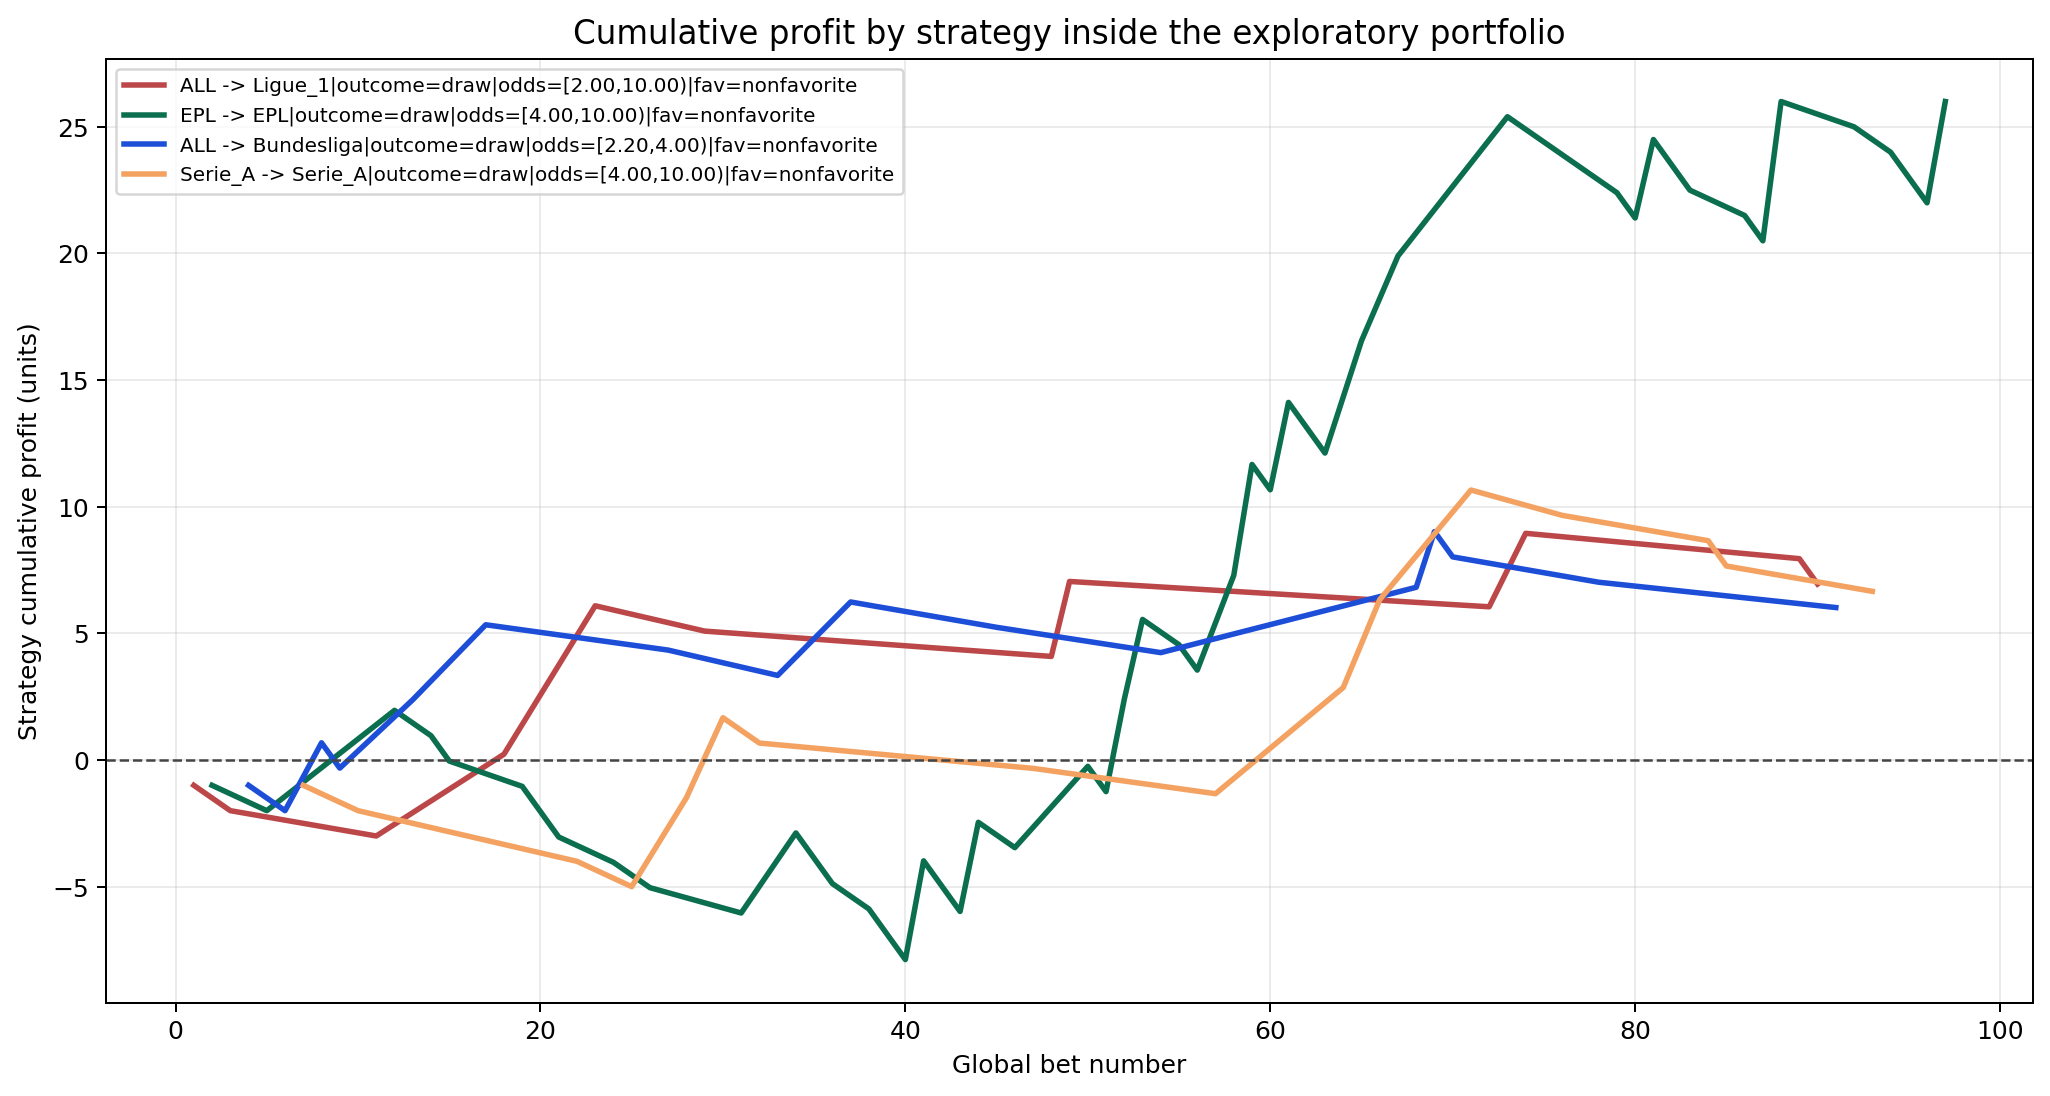
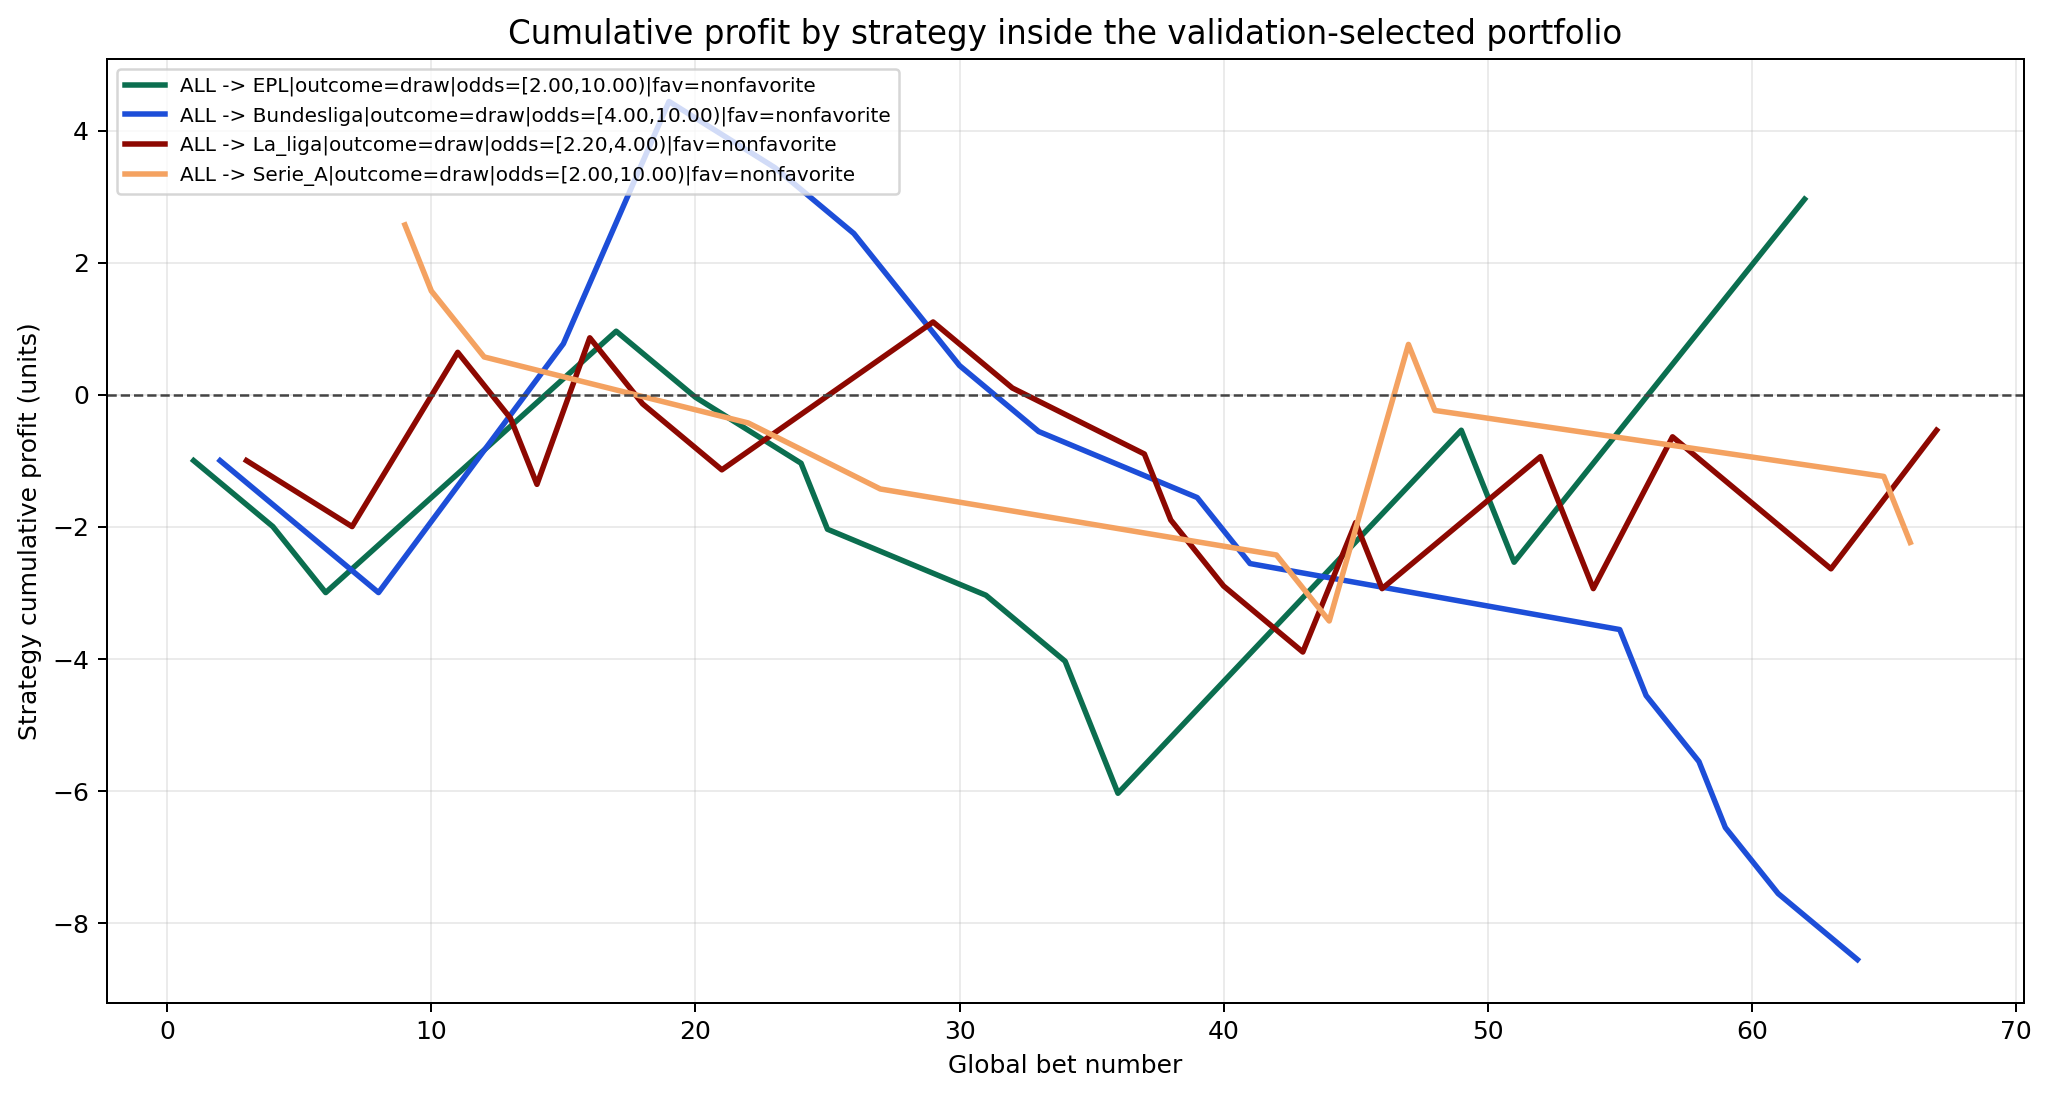
Align live portfolio with validation split

diff --git a/train/generate_readme_figures.py b/train/generate_readme_figures.py
@@ -6,19 +6,20 @@ import pandas as pd
 
 
 SCRIPT_DIR = Path(__file__).resolve().parent
-DEFAULT_PORTFOLIO_BETS = SCRIPT_DIR / "output" / "positive_strategy_portfolio_bets_test_selected.csv"
+DEFAULT_PORTFOLIO_BETS = SCRIPT_DIR / "output" / "positive_strategy_portfolio_bets.csv"
 DEFAULT_DOCS = SCRIPT_DIR.parent / "docs"
 LEAGUE_COLORS = {
     "EPL": "#0b6e4f",
     "Bundesliga": "#1d4ed8",
+    "La_liga": "#8d0801",
     "Ligue_1": "#bc4749",
     "Serie_A": "#f4a261",
 }
 STRATEGY_COLORS = {
-    "train=ALL|bet=Bundesliga|outcome=draw|odds=[2.20,4.00)|fav=nonfavorite": "#1d4ed8",
-    "train=EPL|bet=EPL|outcome=draw|odds=[4.00,10.00)|fav=nonfavorite": "#0b6e4f",
-    "train=ALL|bet=Ligue_1|outcome=draw|odds=[2.00,10.00)|fav=nonfavorite": "#bc4749",
-    "train=Serie_A|bet=Serie_A|outcome=draw|odds=[4.00,10.00)|fav=nonfavorite": "#f4a261",
+    "train=ALL|bet=Bundesliga|outcome=draw|odds=[4.00,10.00)|fav=nonfavorite": "#1d4ed8",
+    "train=ALL|bet=EPL|outcome=draw|odds=[2.00,10.00)|fav=nonfavorite": "#0b6e4f",
+    "train=ALL|bet=Serie_A|outcome=draw|odds=[2.00,10.00)|fav=nonfavorite": "#f4a261",
+    "train=ALL|bet=La_liga|outcome=draw|odds=[2.20,4.00)|fav=nonfavorite": "#8d0801",
 }
 
 
@@ -57,7 +58,7 @@ def plot_portfolio_cumulative_profit(df: pd.DataFrame, output_path: Path) -> Non
     final_roi = df["profit"].mean() * 100.0
     ax.set_title(
         (
-            "Exploratory multi-strategy portfolio on 2025/26\n"
+            "Validation-selected multi-strategy portfolio on 2025/26\n"
             f"{len(df)} bets, cumulative profit {final_profit:.2f}u, ROI {final_roi:.2f}%"
         ),
         fontsize=13,
@@ -87,7 +88,7 @@ def plot_portfolio_cumulative_by_strategy(df: pd.DataFrame, output_path: Path) -
         )
 
     ax.axhline(0.0, color="#444444", linewidth=1.0, linestyle="--")
-    ax.set_title("Cumulative profit by strategy inside the exploratory portfolio", fontsize=13)
+    ax.set_title("Cumulative profit by strategy inside the validation-selected portfolio", fontsize=13)
     ax.set_xlabel("Global bet number")
     ax.set_ylabel("Strategy cumulative profit (units)")
     ax.grid(alpha=0.25)
@@ -104,7 +105,7 @@ def plot_portfolio_monthly_roi_by_league(df: pd.DataFrame, output_path: Path) ->
         .agg(bets=("profit", "size"), roi=("profit", "mean"), profit=("profit", "sum"))
     )
     months = list(dict.fromkeys(monthly["month"].tolist()))
-    leagues = [league for league in ["Bundesliga", "EPL", "Ligue_1", "Serie_A"] if league in set(monthly["league"])]
+    leagues = [league for league in ["Bundesliga", "EPL", "La_liga", "Ligue_1", "Serie_A"] if league in set(monthly["league"])]
     x = np.arange(len(months))
     width = 0.18 if leagues else 0.6
 
@@ -138,7 +139,7 @@ def plot_portfolio_monthly_roi_by_league(df: pd.DataFrame, output_path: Path) ->
     ax.axhline(0.0, color="#444444", linewidth=1.0, linestyle="--")
     ax.set_xticks(x)
     ax.set_xticklabels(months)
-    ax.set_title("Monthly ROI by league inside the exploratory portfolio", fontsize=13)
+    ax.set_title("Monthly ROI by league inside the validation-selected portfolio", fontsize=13)
     ax.set_xlabel("Month")
     ax.set_ylabel("ROI (%)")
     ax.grid(axis="y", alpha=0.25)
@@ -165,7 +166,7 @@ def plot_portfolio_strategy_contribution(df: pd.DataFrame, output_path: Path) ->
     fig, ax = plt.subplots(figsize=(12.0, 6.2))
     bars = ax.barh(labels, summary["profit"], color=colors, alpha=0.9)
     ax.axvline(0.0, color="#444444", linewidth=1.0, linestyle="--")
-    ax.set_title("Strategy contribution inside the exploratory portfolio", fontsize=13)
+    ax.set_title("Strategy contribution inside the validation-selected portfolio", fontsize=13)
     ax.set_xlabel("Profit (units)")
     ax.set_ylabel("Strategy")
     ax.grid(axis="x", alpha=0.25)

diff --git a/inference/portfolio_presets.py b/inference/portfolio_presets.py
@@ -100,8 +100,92 @@ EXPLORATORY_MULTI_STRATEGY_PORTFOLIO_2025 = [
     ),
 ]
 
+VALIDATION_MULTI_STRATEGY_PORTFOLIO_2024 = [
+    FrozenStrategy(
+        name="bundesliga_draw_long_nonfavorite",
+        train_league="",
+        bet_league="Bundesliga",
+        outcome="draw",
+        odds_min=4.0,
+        odds_max=10.0,
+        market_favorite_mode="nonfavorite",
+        threshold=0.60,
+        edge_min=0.10,
+        params={
+            "max_depth": 5,
+            "min_child_weight": 1.4818414236595165,
+            "subsample": 0.6194302714303965,
+            "colsample_bytree": 0.8573720289591046,
+            "gamma": 2.9790486236312685,
+            "reg_lambda": 7.756322993256575,
+            "learning_rate": 0.036178648278979875,
+        },
+    ),
+    FrozenStrategy(
+        name="epl_draw_wide_nonfavorite",
+        train_league="",
+        bet_league="EPL",
+        outcome="draw",
+        odds_min=2.0,
+        odds_max=10.0,
+        market_favorite_mode="nonfavorite",
+        threshold=0.70,
+        edge_min=0.08,
+        params={
+            "max_depth": 5,
+            "min_child_weight": 1.4818414236595165,
+            "subsample": 0.6194302714303965,
+            "colsample_bytree": 0.8573720289591046,
+            "gamma": 2.9790486236312685,
+            "reg_lambda": 7.756322993256575,
+            "learning_rate": 0.036178648278979875,
+        },
+    ),
+    FrozenStrategy(
+        name="serie_a_draw_wide_nonfavorite",
+        train_league="",
+        bet_league="Serie_A",
+        outcome="draw",
+        odds_min=2.0,
+        odds_max=10.0,
+        market_favorite_mode="nonfavorite",
+        threshold=0.55,
+        edge_min=0.08,
+        params={
+            "max_depth": 7,
+            "min_child_weight": 9.338965140939113,
+            "subsample": 0.7095366856584409,
+            "colsample_bytree": 0.9868141109777064,
+            "gamma": 3.5724844852887907,
+            "reg_lambda": 6.337876228053214,
+            "learning_rate": 0.027651516010377894,
+        },
+    ),
+    FrozenStrategy(
+        name="laliga_draw_mid_nonfavorite",
+        train_league="",
+        bet_league="La_liga",
+        outcome="draw",
+        odds_min=2.2,
+        odds_max=4.0,
+        market_favorite_mode="nonfavorite",
+        threshold=0.45,
+        edge_min=0.0,
+        params={
+            "max_depth": 3,
+            "min_child_weight": 5.827662837272576,
+            "subsample": 0.9363690639601221,
+            "colsample_bytree": 0.8638156130767138,
+            "gamma": 0.3767093915505981,
+            "reg_lambda": 7.817167637275669,
+            "learning_rate": 0.06447408062937295,
+        },
+    ),
+]
 
-DEFAULT_PORTFOLIO_NAME = "exploratory_multi_strategy_portfolio_2025"
+
+DEFAULT_PORTFOLIO_NAME = "validation_multi_strategy_portfolio_2024"
 PORTFOLIO_PRESETS = {
-    DEFAULT_PORTFOLIO_NAME: EXPLORATORY_MULTI_STRATEGY_PORTFOLIO_2025,
+    DEFAULT_PORTFOLIO_NAME: VALIDATION_MULTI_STRATEGY_PORTFOLIO_2024,
+    "exploratory_multi_strategy_portfolio_2025": EXPLORATORY_MULTI_STRATEGY_PORTFOLIO_2025,
 }

diff --git a/train/scientific_validation_report.py b/train/scientific_validation_report.py
@@ -13,8 +13,8 @@ from validation_verdict import build_validation_verdict
 
 
 SCRIPT_DIR = Path(__file__).resolve().parent
-DEFAULT_BETS_PATH = SCRIPT_DIR / "output" / "positive_strategy_portfolio_bets_test_selected.csv"
-DEFAULT_SUMMARY_PATH = SCRIPT_DIR / "output" / "positive_strategy_portfolio_summary_test_selected.csv"
+DEFAULT_BETS_PATH = SCRIPT_DIR / "output" / "positive_strategy_portfolio_bets.csv"
+DEFAULT_SUMMARY_PATH = SCRIPT_DIR / "output" / "positive_strategy_portfolio_summary.csv"
 
 
 def default_report_path(bets_path: Path, suffix: str) -> Path:

diff --git a/inference/sportytrader_client.py b/inference/sportytrader_client.py
@@ -31,6 +31,11 @@ SPORTYTRADER_LEAGUE_CONFIGS = {
         "title_contains": "Ligue 1",
         "section_title": "Upcoming Ligue 1 matches",
     },
+    "La_liga": {
+        "url": "https://www.sportytrader.com/en/odds/football/spain/laliga-108/",
+        "title_contains": "LaLiga",
+        "section_title": "Upcoming LaLiga matches",
+    },
 }
 NPX_EXECUTABLE = shutil.which("npx") or shutil.which("npx.cmd") or "npx"
 PLAYWRIGHT_CLI = [

diff --git a/data_pipeline/market_data.py b/data_pipeline/market_data.py
@@ -63,7 +63,9 @@ TEAM_NAME_ALIASES = {
     "spal": "spal 2013",
     "parma calcio 1913": "parma",
     "ath bilbao": "athletic club",
+    "athletic bilbao": "athletic club",
     "ath madrid": "atletico madrid",
+    "alavas": "alaves",
     "betis": "real betis",
     "celta": "celta vigo",
     "espanol": "espanyol",

diff --git a/README.md b/README.md
@@ -192,9 +192,9 @@ Il y a 2 facons de chercher des strategies dans le projet.
 C'est le mode propre.
 
 Idee :
-- on cherche les regles sur `2024`
+- on cherche les regles sur `season == 2024`, c'est-a-dire la saison `2024/25`
 - on les gele
-- on regarde ensuite ce que ca donne sur `2025/26`
+- on regarde ensuite ce que ca donne sur `season == 2025`, c'est-a-dire la saison `2025/26`
 
 C'est le mode a privilegier si on veut etre rigoureux.
 
@@ -210,11 +210,16 @@ Ce mode est utile pour faire tourner une inference live maintenant, mais il est 
 
 ## Portefeuille actuel
 
+Le preset live actuel est maintenant le preset rigoureux :
+- strategie choisie sur `season == 2024`, donc la saison `2024/25`
+- evaluation sur `season == 2025`, donc la saison `2025/26`
+- la fin de saison `2025/26` apres le `12 mars 2026` sert de test prospectif propre pour le suivi live et le CLV
+
 Le preset live actuel combine 4 strategies :
-- `Bundesliga draw nonfavorite [2.20, 4.00)`
-- `EPL draw nonfavorite [4.00, 10.00)`
-- `Ligue 1 draw nonfavorite [2.00, 10.00)`
-- `Serie A draw nonfavorite [4.00, 10.00)`
+- `Bundesliga draw nonfavorite [4.00, 10.00)`
+- `EPL draw nonfavorite [2.00, 10.00)`
+- `La Liga draw nonfavorite [2.20, 4.00)`
+- `Serie A draw nonfavorite [2.00, 10.00)`
 
 En clair :
 - on joue surtout des nuls
@@ -223,23 +228,25 @@ En clair :
 - sur plusieurs ligues pour eviter de dependre d'une seule poche
 
 Exports conserves :
+- `train/output/positive_strategy_portfolio_summary.csv`
+- `train/output/positive_strategy_portfolio_bets.csv`
 - `train/output/positive_strategy_portfolio_summary_test_selected.csv`
 - `train/output/positive_strategy_portfolio_bets_test_selected.csv`
 
-Resultat exploratoire observe sur `2025/26` :
+Resultat du preset live rigoureux sur `2025/26` :
 
 | Metrique | Valeur |
 | --- | ---: |
 | Strategies retenues | `4` |
-| Paris selectionnes | `97` |
-| Profit cumule | `+45.63` unites |
-| ROI | `+47.04%` |
-| Hit rate | `31.96%` |
+| Paris selectionnes | `67` |
+| Profit cumule | `-8.38` unites |
+| ROI | `-12.51%` |
+| Hit rate | `20.90%` |
 
 Lecture correcte :
-- c'est interessant
-- c'est exploitable pour de l'inference live
-- mais ce n'est pas encore une preuve finale de robustesse
+- c'est le cadre methodologiquement propre
+- il est plus defensable scientifiquement
+- mais il n'est pas encore rentable sur le backtest `2025/26`
 
 ## Comment on mesure la robustesse
 
@@ -261,19 +268,20 @@ Le rapport regarde :
 Lecture simple :
 - un ROI positif seul ne suffit pas
 - si le portefeuille a ete choisi sur la meme saison qu'il gagne, la preuve reste faible
-- si le portefeuille est gele puis gagne ensuite sur des matchs jamais vus, la preuve devient plus serieuse
+- si le portefeuille est choisi sur `2024/25`, puis teste ensuite sur `2025/26`, la preuve est deja plus propre
+- si en plus le CLV devient positif sur les matchs joues apres le `12 mars 2026`, la preuve devient plus serieuse
 
 Aujourd'hui :
-- le portefeuille exploratoire sur `2025/26` reste classe `faible`
-- le portefeuille choisi proprement sur validation reste negatif
+- le portefeuille rigoureux choisi sur `2024/25` reste classe `faible` et negatif sur `2025/26`
+- le portefeuille exploratoire positif sur `2025/26` existe encore pour la recherche, mais n'est plus le preset live par defaut
 
 Donc la bonne suite, au `12 mars 2026`, c'est de geler la strategie live maintenant et de suivre uniquement la fin de saison `2025/26`.
 
 Fichiers de rapport generes :
-- `train/output/positive_strategy_portfolio_bets_test_selected_scientific_report.md`
-- `train/output/positive_strategy_portfolio_bets_test_selected_scientific_report.json`
 - `train/output/positive_strategy_portfolio_bets_scientific_report.md`
 - `train/output/positive_strategy_portfolio_bets_scientific_report.json`
+- `train/output/positive_strategy_portfolio_bets_test_selected_scientific_report.md`
+- `train/output/positive_strategy_portfolio_bets_test_selected_scientific_report.json`
 
 En live, chaque recommandation est aussi archivee ici :
 - `inference/output/live_portfolio_bet_log.csv`
